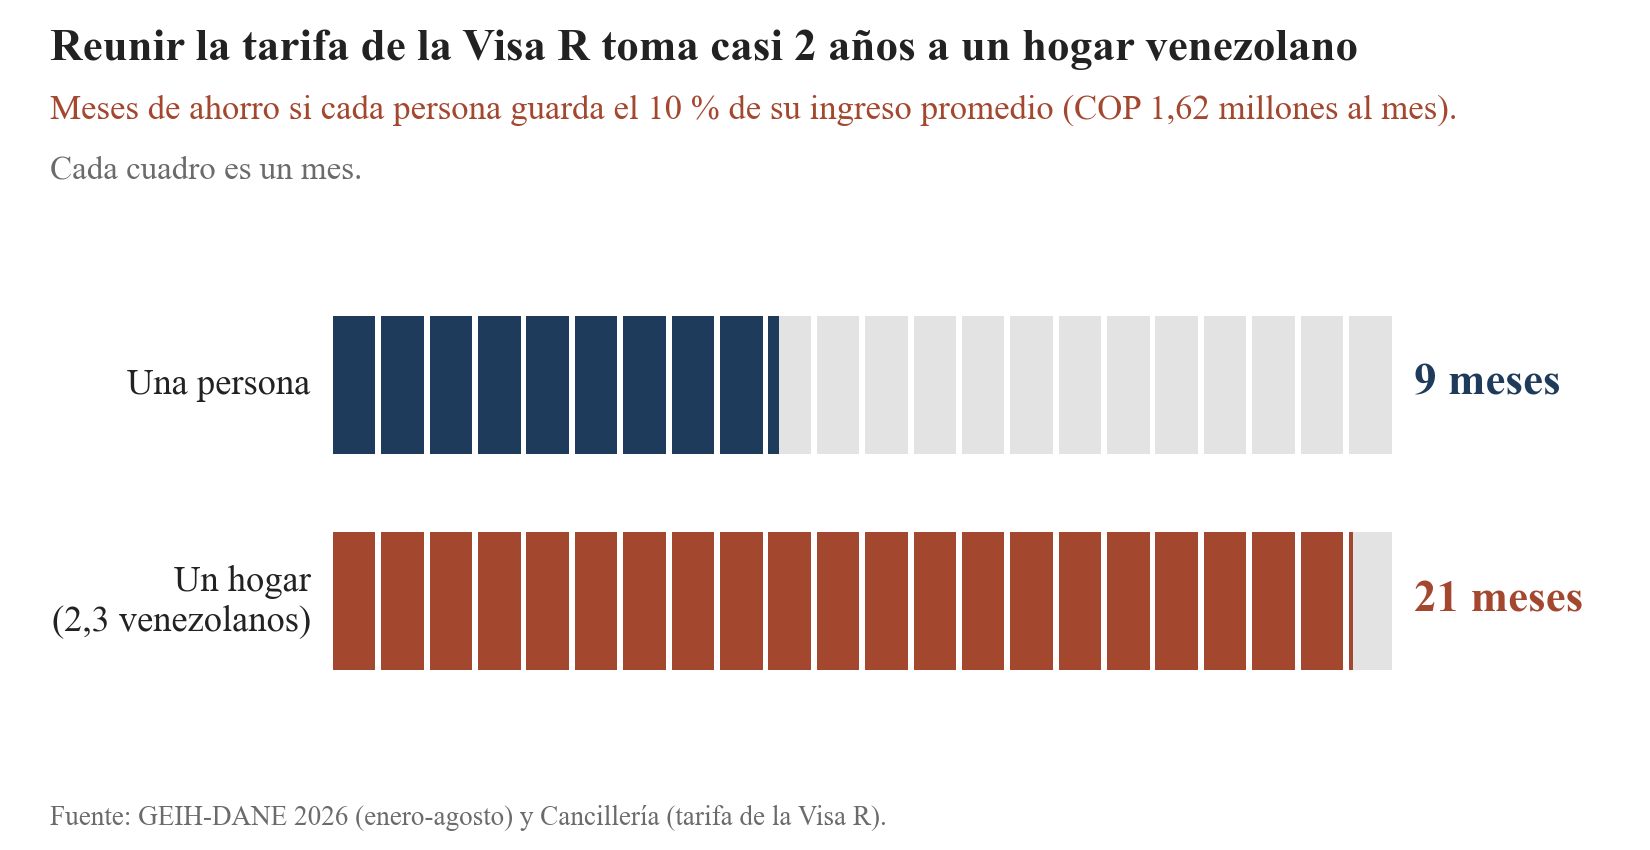
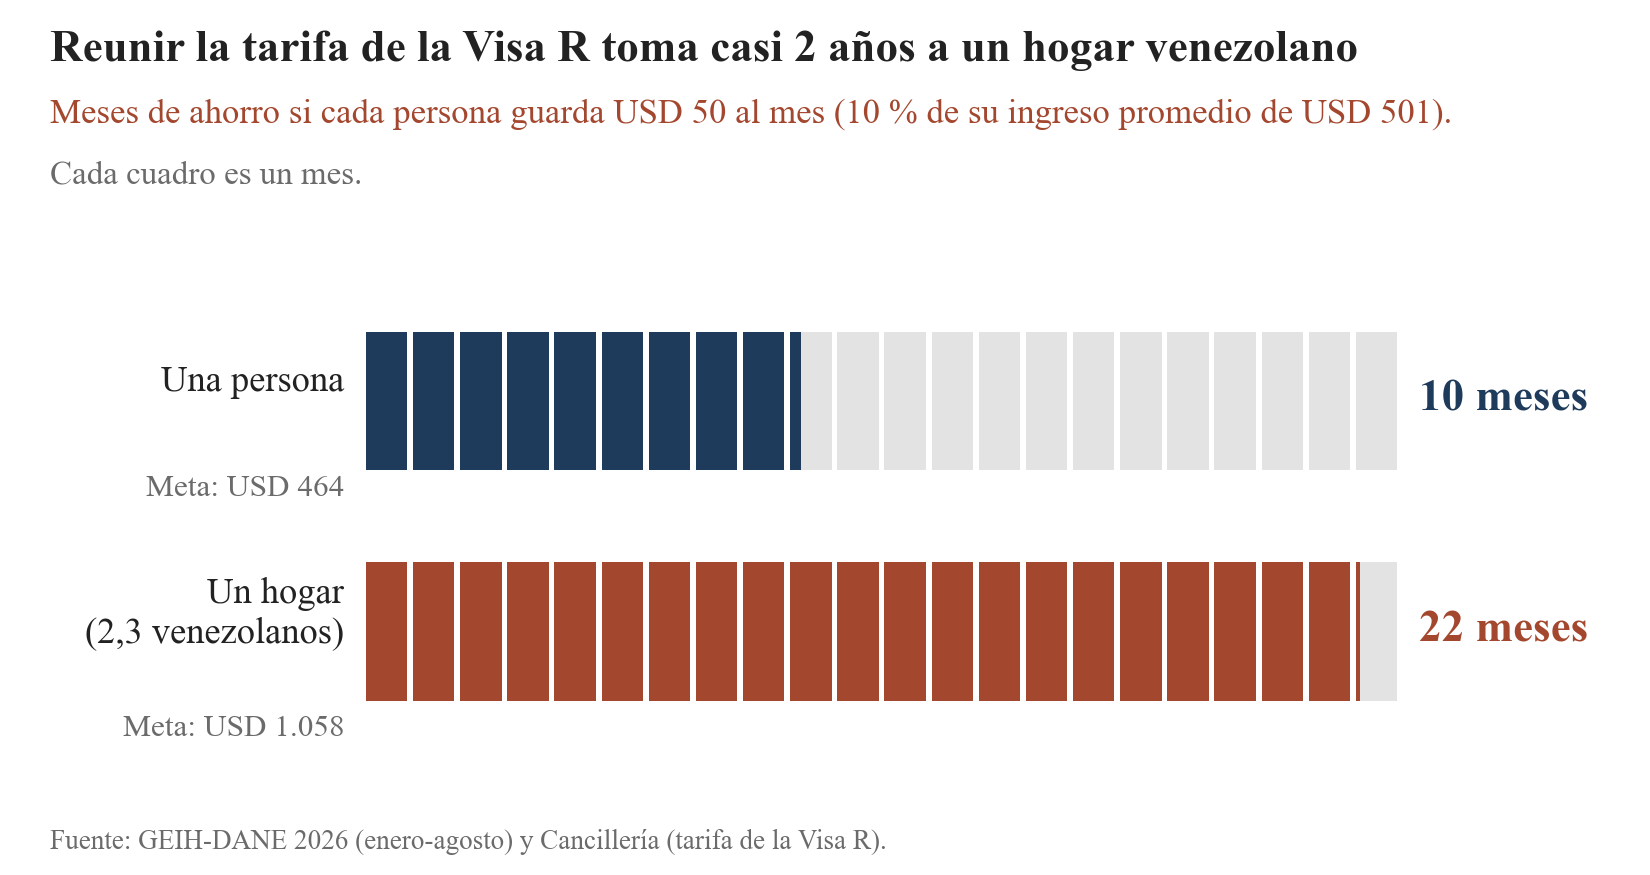
Graficos de ahorro para la Visa R en dolares, con lo que lleva y lo que le falta

diff --git a/Code/22_graficos_ahorro_tarifa.py b/Code/22_graficos_ahorro_tarifa.py
@@ -26,42 +26,56 @@ g = g[g.anio == 2026][["mes", "fex_c18", "pais_nac", "nacionalidad", "oci", "ing
 g["w"] = g.fex_c18 / g.mes.nunique()
 v = g[(g.pais_nac == 862) & (g.nacionalidad == 3) & (g.oci == 1) & (g.inglabo > 0)]
 ING = float(np.average(v.inglabo, weights=v.w))
+ING_USD = ING / TRM
 TASAS = [0.10, 0.20, 0.30]
-meses = {t: FEE / (t * ING) for t in TASAS}
-pd.DataFrame({"tasa_ahorro": TASAS, "ahorro_mensual_COP": [t * ING for t in TASAS], "meses_persona": [meses[t] for t in TASAS],
+meses = {t: FEE_USD / (t * ING_USD) for t in TASAS}
+pd.DataFrame({"tasa_ahorro": TASAS, "ahorro_mensual_USD": [t * ING_USD for t in TASAS], "meses_persona": [meses[t] for t in TASAS],
               "meses_hogar_2_28_venezolanos": [meses[t] * VEN_HOG for t in TASAS]}).round(2).to_csv(TAB / "t23_meses_ahorro.csv", index=False)
 FUENTE = "Fuente: GEIH-DANE 2026 (enero-agosto) y Cancillería (tarifa de la Visa R)."
+AH = 0.10 * ING_USD
 
-# =============================================================== propuesta A: meses de ahorro según cuánto ahorre
-fig, ax = plt.subplots(figsize=(6.4, 3.9)); fig.subplots_adjust(left=0.05, right=0.97, top=0.76, bottom=0.2)
-x = np.arange(3); m = [meses[t] for t in TASAS]
-ax.bar(x, m, 0.55, color=[ACC, NAVY, NAVY])
-for xi, mm in zip(x, m):
-    ax.text(xi, mm + 0.2, f"{pc(mm)} meses", ha="center", va="bottom", fontsize=13, fontweight="bold", color=ACC if xi == 0 else INK)
-ax.set_xticks(x); ax.set_xticklabels([f"Ahorra el {int(t * 100)} %" + NL + f"(COP {miles(t * ING / 1e3)} mil al mes)" for t in TASAS], fontsize=10.5)
-ax.set_yticks([]); ax.spines["left"].set_visible(False); ax.set_ylim(0, 11.5); ax.set_xlim(-0.5, 2.5)
-fig.text(0.03, 0.94, f"Un venezolano necesita más de {int(meses[0.10])} meses de ahorro para pagar la Visa R", fontsize=13, fontweight="bold", ha="left")
-fig.text(0.03, 0.875, f"Si ahorra el 10 % de su ingreso promedio (COP {pc(ING / 1e6, 2)} millones al mes). La visa cuesta COP {pc(FEE / 1e6, 2)} millones.",
-         fontsize=10, ha="left", color=ACC)
+# =============================================================== propuesta A: cuánto lleva y cuánto le falta, mes a mes (ahorro del 10 %)
+n = int(np.ceil(FEE_USD / AH)); mm_ = np.arange(1, n + 1); lleva = AH * mm_
+fig, ax = plt.subplots(figsize=(6.6, 4.0)); fig.subplots_adjust(left=0.04, right=0.97, top=0.76, bottom=0.17)
+for x_, l in zip(mm_, lleva):
+    ok = l >= FEE_USD
+    ax.bar(x_, min(l, FEE_USD) if not ok else l, 0.7, color=ACC if ok else NAVY)
+    if not ok:
+        ax.bar(x_, FEE_USD - l, 0.7, bottom=l, facecolor="white", edgecolor=LNAVY, hatch="////", linewidth=0.6)
+        ax.text(x_, FEE_USD + 12, f"faltan" + NL + f"USD {miles(FEE_USD - l)}", ha="center", va="bottom", fontsize=8, color=GRAY)
+        ax.text(x_, l - 10 if l > 60 else l + 8, f"USD {miles(l)}", ha="center", va="top" if l > 60 else "bottom", fontsize=7.8,
+                color="white" if l > 60 else NAVY, fontweight="bold")
+    else:
+        ax.text(x_, l + 12, f"¡Alcanza!" + NL + f"USD {miles(l)}", ha="center", va="bottom", fontsize=9, color=ACC, fontweight="bold")
+ax.axhline(FEE_USD, color=INK, lw=1.0, ls="--")
+ax.text(n + 0.5, FEE_USD, "Visa R:" + NL + f"USD {FEE_USD}", ha="left", va="center", fontsize=9.5, color=INK, fontweight="bold", bbox=dict(facecolor="white", edgecolor="none", pad=1.5))
+ax.set_xticks(mm_); ax.set_xticklabels([f"Mes {k}" for k in mm_], fontsize=9); ax.set_yticks([]); ax.spines["left"].set_visible(False)
+ax.set_ylim(0, 620); ax.set_xlim(0.4, n + 1.5)
+fig.text(0.03, 0.94, f"Ahorrando USD {miles(AH)} al mes, un venezolano tarda {n} meses en pagar la Visa R", fontsize=12.5, fontweight="bold", ha="left")
+fig.text(0.03, 0.875, f"Ahorro acumulado y lo que le falta, si guarda el 10 % de su ingreso promedio (USD {miles(ING_USD)} al mes).", fontsize=10,
+         ha="left", color=ACC)
 fig.text(0.03, 0.03, FUENTE, fontsize=7.8, color=GRAY, ha="left")
 fig.savefig(FIG / "pr9a_meses_ahorro.png", dpi=250, facecolor="white"); plt.close(fig)
 
 # =============================================================== propuesta B: calendario de ahorro, persona y hogar (10 %)
 t = 0.10; mp, mh = meses[t], meses[t] * VEN_HOG; tot = int(np.ceil(mh))
-fig, ax = plt.subplots(figsize=(6.6, 3.4)); fig.subplots_adjust(left=0.2, right=0.98, top=0.7, bottom=0.14)
-for row, (nom, mm) in enumerate([("Un hogar" + NL + f"({pc(VEN_HOG)} venezolanos)", mh), ("Una persona", mp)]):
+fig, ax = plt.subplots(figsize=(6.6, 3.5)); fig.subplots_adjust(left=0.22, right=0.98, top=0.7, bottom=0.12)
+filas = [("Un hogar" + NL + f"({pc(VEN_HOG)} venezolanos)", mh, f"Meta: USD {miles(FEE_USD * VEN_HOG)}", ACC),
+         ("Una persona", mp, f"Meta: USD {FEE_USD}", NAVY)]
+for row, (nom, mm, meta, col) in enumerate(filas):
     for k in range(tot):
         fill = min(max(mm - k, 0), 1)
-        ax.add_patch(Rectangle((k + 0.06, row - 0.32), 0.88, 0.64, facecolor=LGRAY, edgecolor="none"))
+        ax.add_patch(Rectangle((k + 0.06, row - 0.3), 0.88, 0.6, facecolor=LGRAY, edgecolor="none"))
         if fill > 0:
-            ax.add_patch(Rectangle((k + 0.06, row - 0.32), 0.88 * fill, 0.64, facecolor=ACC if row == 0 else NAVY, edgecolor="none"))
-    ax.text(-0.4, row, nom, ha="right", va="center", fontsize=10.5)
-    ax.text(tot + 0.4, row, f"{pc(mm, 0)} meses", ha="left", va="center", fontsize=13, fontweight="bold", color=ACC if row == 0 else NAVY)
+            ax.add_patch(Rectangle((k + 0.06, row - 0.3), 0.88 * fill, 0.6, facecolor=col, edgecolor="none"))
+    ax.text(-0.4, row + 0.08, nom, ha="right", va="center", fontsize=10.5)
+    ax.text(-0.4, row - 0.38 if row == 1 else row - 0.42, meta, ha="right", va="center", fontsize=9, color=GRAY)
+    ax.text(tot + 0.4, row, f"{int(np.ceil(mm))} meses", ha="left", va="center", fontsize=13, fontweight="bold", color=col)
 ax.set_xlim(0, tot + 4.6); ax.set_ylim(-0.6, 1.6); ax.axis("off")
 fig.text(0.03, 0.93, "Reunir la tarifa de la Visa R toma casi 2 años a un hogar venezolano", fontsize=13, fontweight="bold", ha="left")
-fig.text(0.03, 0.86, f"Meses de ahorro si cada persona guarda el 10 % de su ingreso promedio (COP {pc(ING / 1e6, 2)} millones al mes).", fontsize=10,
+fig.text(0.03, 0.86, f"Meses de ahorro si cada persona guarda USD {miles(AH)} al mes (10 % de su ingreso promedio de USD {miles(ING_USD)}).", fontsize=10,
          ha="left", color=ACC)
 fig.text(0.03, 0.79, "Cada cuadro es un mes.", fontsize=9.5, ha="left", color=GRAY)
 fig.text(0.03, 0.03, FUENTE, fontsize=7.8, color=GRAY, ha="left")
 fig.savefig(FIG / "pr9b_ahorro_persona_hogar.png", dpi=250, facecolor="white"); plt.close(fig)
-print("ingreso promedio", round(ING), "tarifa COP", FEE, "pct", round(100 * FEE / ING, 1), {k: round(v_, 1) for k, v_ in meses.items()}, "hogar 10%", round(mh, 1))
+print("ingreso USD", round(ING_USD, 1), "ahorro mes", round(AH, 1), "meses", round(mp, 2), "hogar", round(mh, 1), "meta hogar", FEE_USD * VEN_HOG)
